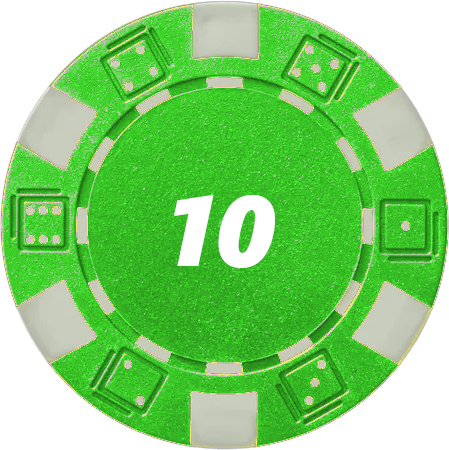
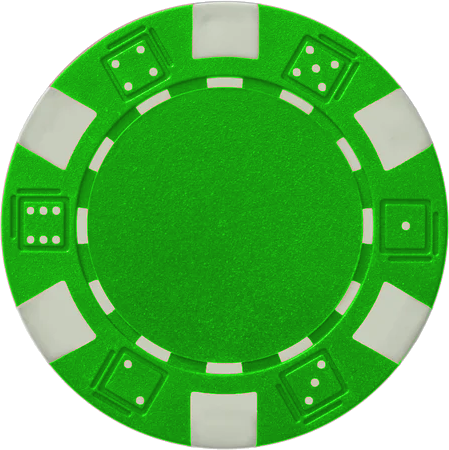
Refactor Jeton.vue and add onLeave utility function
The Jeton.vue has been refactored to improve code readability and reduce redundancies in image presentation logic. Rather than each image having a value tied to a hardcoded equality condition, it was changed to a range-based elif conditional structure, which checks if the value falls within a certain range. This makes the code more robust and easier to modify in case of future changes. A functional component (Utils.ts) was also added to handle onLeave events, which is expected to enhance user navigation experience across the application. Slots.vue and blackjack.vue pages have been updated to use this onLeave function. Also, UI improvements were made to blackjack.vue for a better user experience.

diff --git a/components/Jeton.vue b/components/Jeton.vue
@@ -3,18 +3,38 @@ defineProps<{ value: number }>()
 </script>
 
 <template>
-  <img v-if="value == 1" src="/jeton/jeton1.png" alt="jeton1">
-  <img v-if="value == 5" src="/jeton/jeton5.png" alt="jeton5">
-  <img v-if="value == 10" src="/jeton/jeton10.png" alt="jeton10">
-  <img v-if="value == 25" src="/jeton/jeton25.png" alt="jeton25">
-  <img v-if="value == 50" src="/jeton/jeton50.png" alt="jeton50">
-  <img v-if="value == 100" src="/jeton/jeton100.png" alt="jeton100">
-  <img v-if="value == 500" src="/jeton/jeton500.png" alt="jeton500">
+  <div>
+    <img v-if="value <= 1" src="/jeton/jeton1.png" alt="jeton1">
+    <img v-else-if="value <= 5" src="/jeton/jeton5.png" alt="jeton5">
+    <img v-else-if="value <= 10" src="/jeton/jeton10.png" alt="jeton10">
+    <img v-else-if="value <= 25" src="/jeton/jeton25.png" alt="jeton25">
+    <img v-else-if="value <= 50" src="/jeton/jeton50.png" alt="jeton50">
+    <img v-else-if="value <= 100" src="/jeton/jeton100.png" alt="jeton100">
+    <img v-else src="/jeton/jeton500.png" alt="jeton500">
+
+    <p>{{ value }}</p>
+  </div>
 </template>
 
 <style scoped lang="scss">
-img {
+div {
   width: 100%;
-  filter: drop-shadow( 5px 5px 3px #00000088);
+
+  display: flex;
+
+  justify-content: center;
+  align-items: center;
+
+  img {
+    width: 100%;
+    filter: drop-shadow(5px 5px 3px #00000088);
+  }
+
+  p {
+    position: absolute;
+
+    font-size: 30px;
+    color: white;
+  }
 }
 </style>

diff --git a/pages/blackjack.vue b/pages/blackjack.vue
@@ -4,6 +4,7 @@ import {Deck} from "~/utils/blackjack/deck";
 import {BlackJackCard, getMaxValidSum} from "~/utils/blackjack/blackJackCard";
 import Hand from "~/components/blackjack/hand.vue";
 import {betMoney, changeMoney, hasEnoughMoney, money} from "~/stores/money";
+import {onLeave} from "~/utils/Utils";
 
 let deck = new Deck();
 
@@ -24,6 +25,10 @@ let canSplit = computed(args => {
 
 let wins = ref<boolean[]>([false, false]);
 let losses = ref<boolean[]>([false, false]);
+
+//todo
+const route = useRoute();
+console.log(route.query.test);
 
 async function next(hand: number) {
   firstTurn.value = false;
@@ -164,6 +169,14 @@ async function onBet() {
 
 <template>
   <main>
+    <div id="leave">
+      <button @click="onLeave()">
+        Leave
+      </button>
+    </div>
+    <div id="money">
+      money: {{ money }}
+    </div>
     <div v-if="running" id="game">
       <div id="head">
         <hand :cards="croupierCards"></hand>
@@ -199,13 +212,15 @@ async function onBet() {
       </button>
       <BetSelect></BetSelect>
     </div>
-    <div id="money">
-      money: {{ money }}
-    </div>
   </main>
 </template>
 
 <style scoped lang="scss">
+
+#leave {
+  position: absolute;
+}
+
 #game {
 
   display: flex;

diff --git a/pages/slots.vue b/pages/slots.vue
@@ -1,21 +1,22 @@
 <script setup lang="ts">
 
 import SlotWheel from "~/components/slots/SlotWheel.vue";
+import {onLeave} from "~/utils/Utils";
 </script>
 
 <template>
-  <nav>
-    <router-link to="/">
-      leave
-    </router-link>
-  </nav>
+  <div id="leave">
+    <button @click="onLeave()">
+      Leave
+    </button>
+  </div>
   <main>
     <slot-wheel/>
   </main>
 </template>
 
 <style scoped lang="scss">
-nav {
+#leave {
   position: absolute;
 }
 

diff --git a/utils/Utils.ts b/utils/Utils.ts
@@ -1,0 +1,3 @@
+export function onLeave() {
+  //todo
+}
